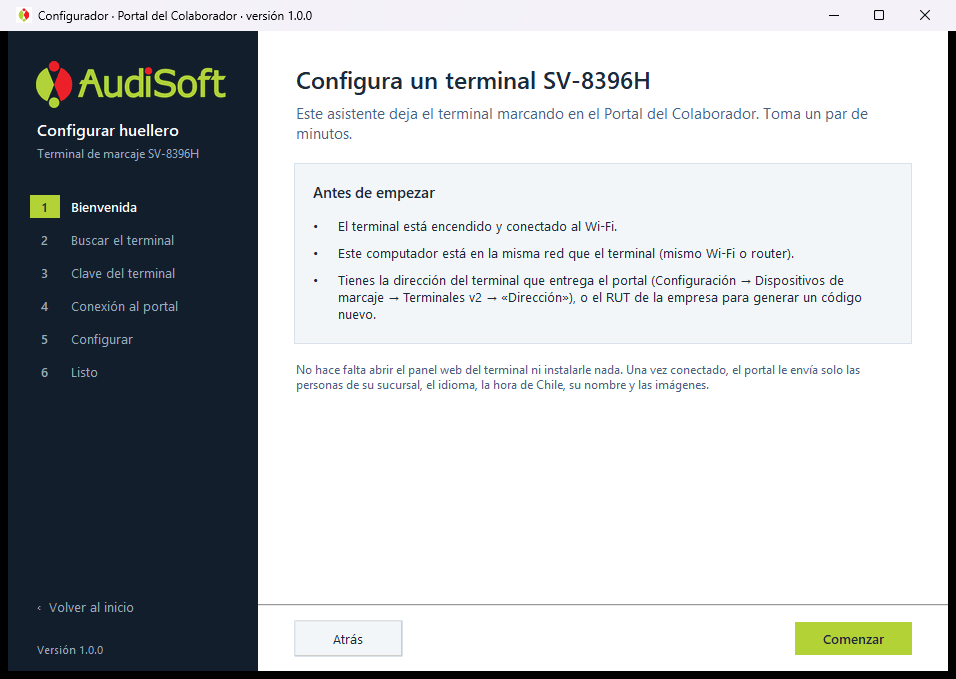
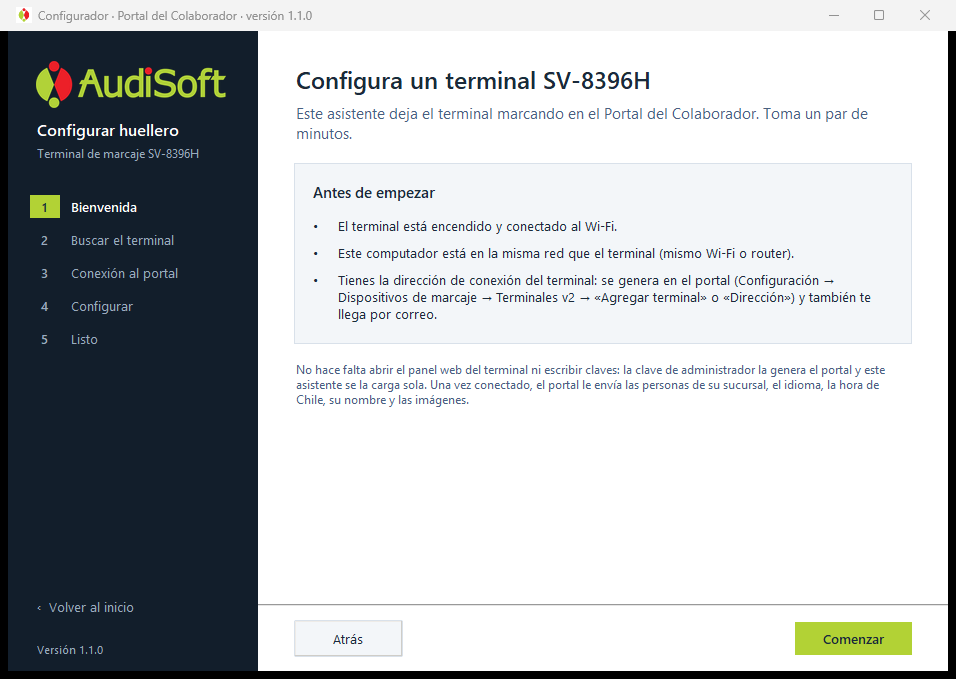
README: configurador 1.1.0 (dirección del portal, clave automática, disponibilidad)
- Parte 0 nueva: agregar el terminal en el portal entrega la dirección de
  conexión y la clave de administrador de 6 dígitos (también por correo).
- Parte 2 con 6 pasos: búsqueda con «Disponible / No disponible», solo se pega
  la dirección, sin página de clave ni «generar un código».
- Problemas frecuentes: terminal no disponible, dirección ya usada en otro
  terminal, dirección que el portal no reconoce. Sin IP a mano.
- Capturas de la 1.1.0.

diff --git a/README.md b/README.md
@@ -12,14 +12,16 @@ actualiza solo.
 
 ## Instructivo: terminal recién llegado
 
-Son **dos partes**: primero el terminal se conecta al Wi-Fi (en el propio equipo)
-y después el configurador, desde un computador en esa **misma red Wi-Fi**, lo
+Son **tres partes**: en el portal se agrega el terminal (eso entrega su
+dirección de conexión), el terminal se conecta al Wi-Fi (en el propio equipo) y
+después el configurador, desde un computador en esa **misma red Wi-Fi**, lo
 conecta al portal.
 
 ```mermaid
 flowchart LR
+    P["🌐 Parte 0<br/>Agregar el terminal<br/>(en el portal)"] --> B
     A["📦 Terminal nuevo<br/>enchufado"] --> B["📶 Parte 1<br/>Idioma y Wi-Fi<br/>(en el terminal)"]
-    B --> C["💻 Parte 2<br/>Abrir el configurador<br/>(mismo Wi-Fi)"]
+    B --> C["💻 Parte 2<br/>Abrir el configurador<br/>y pegar la dirección"]
     C --> D["✅ Marcando en el<br/>Portal del Colaborador"]
 ```
 
@@ -30,9 +32,30 @@ flowchart LR
 | El terminal enchufado a la corriente | Que encienda (tarda cerca de un minuto). |
 | Nombre y clave del Wi-Fi donde quedará instalado | El terminal se conecta a esa red. |
 | Un computador con Windows **en ese mismo Wi-Fi** | Desde ahí se usa el configurador. |
-| La **dirección del terminal** que entrega el portal *(recomendado)* | En el portal: **Configuración → Dispositivos de marcaje → Terminales v2** → botón «Dirección» → «Copiar». Si el terminal aún no está en el portal, basta con el RUT de la empresa (ver paso 2.4). |
+| La **dirección de conexión** del terminal | Se genera en el portal al agregarlo (ver Parte 0). También llega por correo. |
 
 > La red tiene que tener **salida a internet**: el terminal habla directo con el portal.
+
+---
+
+### Parte 0 · Agregar el terminal en el portal
+
+En el portal: **Configuración → Dispositivos de marcaje → Terminales v2 →
+«Agregar terminal»**. Ponerle un nombre (se muestra en el equipo) y elegir la
+sucursal (el terminal recibe a las personas de esa sucursal).
+
+Al agregarlo, el portal muestra dos cosas y las manda **por correo** a quien
+lo agregó:
+
+| Qué | Para qué |
+|---|---|
+| **Dirección de conexión** (`https://…/terminal/…`) | Se pega en el configurador (paso 2.4). Funciona como la clave del terminal. |
+| **Clave de administrador del terminal** (6 dígitos) | **No hay que escribirla en ninguna parte**: el configurador se la define sola al terminal. Sirve para entrar al menú del terminal, así que conviene guardarla. |
+
+> **La dirección sirve para un solo terminal.** El primero que se conecta con
+> ella queda amarrado y ningún otro equipo la puede usar. Si se pierde o se
+> filtró, en el portal se genera otra con el botón **«Dirección»** del terminal
+> (la clave de administrador se mantiene).
 
 ---
 
@@ -111,35 +134,23 @@ terminal**. Si Windows muestra «Windows protegió su PC», hacer clic en
   </tr>
   <tr valign="top">
     <td><b>2.1</b> Elegir <b>Configurar huellero</b>.</td>
-    <td><b>2.2</b> La bienvenida resume lo que se va a hacer. <b>Siguiente</b>.</td>
+    <td><b>2.2</b> La bienvenida resume lo que se va a hacer. <b>Comenzar</b>.</td>
   </tr>
   <tr>
-    <td><img src="docs/configurador-3_buscar.png" alt="Búsqueda del terminal en la red"></td>
-    <td><img src="docs/configurador-4_clave.png" alt="Clave de administrador opcional"></td>
+    <td><img src="docs/configurador-3_buscar.png" alt="Búsqueda del terminal en la red, con su disponibilidad"></td>
+    <td><img src="docs/configurador-4_portal.png" alt="Conexión al portal: pegar la dirección"></td>
   </tr>
   <tr valign="top">
-    <td><b>2.3 Buscar el terminal.</b> Aparece como «Terminal de marcaje SV-8396H» con su número de serie (el de la etiqueta de atrás del equipo). Si no aparece, escribir la IP que muestra su pantalla (paso B2 ②) y <b>Probar</b>.</td>
-    <td><b>2.4 Clave del terminal.</b> Un terminal nuevo viene sin clave: se puede dejar en blanco o definir una de 4 a 8 dígitos (si se define, <b>anotarla</b>: se pide para volver a configurarlo).</td>
+    <td><b>2.3 Buscar el terminal.</b> Aparece como «Terminal de marcaje SV-8396H» con su número de serie (el de la etiqueta de atrás del equipo) y su <b>disponibilidad</b>:<br>• <b>Disponible</b>: no tiene clave de administrador; es el caso de un terminal nuevo.<br>• <b>No disponible</b>: ya tiene clave, porque ya se configuró. Solo se puede volver a configurar con la misma dirección con que se conectó.</td>
+    <td><b>2.4 Conexión al portal.</b> Pegar la <b>dirección de conexión</b> del portal (botón <b>Pegar</b>). El configurador le pide al portal la clave de administrador y se la carga sola al terminal: no se escribe ninguna clave.</td>
   </tr>
   <tr>
-    <td><img src="docs/configurador-5_portal.png" alt="Conexión al portal"></td>
-    <td><img src="docs/configurador-6_configurar.png" alt="Revisar y configurar"></td>
+    <td><img src="docs/configurador-5_configurar.png" alt="Revisar y configurar"></td>
+    <td><img src="docs/configurador-6_listo.png" alt="Terminal conectado"></td>
   </tr>
   <tr valign="top">
-    <td><b>2.5 Conexión al portal.</b> Pegar la <b>dirección</b> copiada del portal (recomendado). Si el terminal aún no está en el portal, elegir «generar un código», el servidor y el RUT de la empresa.</td>
-    <td><b>2.6 Revisar y configurar.</b> Muestra lo que se escribirá en el terminal. <b>Configurar terminal</b> y esperar los ✔.</td>
-  </tr>
-  <tr>
-    <td><img src="docs/configurador-7_listo.png" alt="Terminal conectado"></td>
-    <td valign="top">
-      <b>2.7 ¡Terminal conectado!</b><br><br>
-      En menos de un minuto el terminal recibe las personas de su sucursal, el
-      idioma, la hora de Chile, su nombre y las imágenes de Audisoft.<br><br>
-      <b>Si se usó «generar un código»:</b> falta un paso. En el portal,
-      <b>Configuración → Dispositivos de marcaje → Terminales v2 → «Agregar terminal»</b>,
-      pegar el código, ponerle nombre y elegir la sucursal. Guardar bien el código:
-      funciona como clave del terminal y el configurador no lo vuelve a mostrar.
-    </td>
+    <td><b>2.5 Revisar y configurar.</b> Muestra lo que se escribirá en el terminal. <b>Configurar terminal</b> y esperar los ✔.</td>
+    <td><b>2.6 ¡Terminal conectado!</b> En menos de un minuto el terminal recibe las personas de su sucursal, el idioma, la hora de Chile, su nombre y las imágenes de Audisoft. Desde ahí la dirección queda amarrada a ese terminal.</td>
   </tr>
 </table>
 
@@ -152,11 +163,17 @@ terminal**. Si Windows muestra «Windows protegió su PC», hacer clic en
 
 | Problema | Qué hacer |
 |---|---|
-| El configurador no encuentra el terminal | Revisar que el computador y el terminal estén en el **mismo Wi-Fi** (no en la red de invitados). Escribir la IP que muestra la pantalla del terminal (paso B2 ②) y **Probar**. |
-| Pide una clave que nadie conoce | El terminal ya fue configurado antes con clave. Pedirla a quien lo configuró o a soporte de Audisoft. |
-| Termina, pero «el terminal aún no informa conexión» | El Wi-Fi no tiene salida a internet o la bloquea. Probar con otra red. Si se usó un código, primero hay que agregarlo en el portal. |
+| El configurador no encuentra el terminal | Revisar que el computador y el terminal estén en el **mismo Wi-Fi** (no en la red de invitados) y pulsar **Buscar de nuevo**. La IP que muestra la pantalla del terminal (paso B2 ②) ayuda a confirmar que está en la misma red que el computador. |
+| El terminal aparece **No disponible** | Ya tiene clave de administrador: se configuró antes. Si es el mismo terminal, pegar la dirección con que se conectó (o generar una nueva para ese terminal en el portal). Si es un equipo reutilizado de otro lugar, restablecerlo de fábrica desde su menú y buscarlo de nuevo. |
+| «Esta dirección ya se usó en otro terminal» | Cada dirección sirve para un solo terminal. Agregar este terminal en el portal (Parte 0) o generar una dirección nueva con el botón **«Dirección»**. |
+| «El portal no reconoce esta dirección» | Se generó una dirección más nueva o el terminal se eliminó del portal. Copiar la dirección vigente desde el portal o el correo más reciente. |
+| Termina, pero «el terminal aún no informa conexión» | El Wi-Fi no tiene salida a internet o la bloquea. Probar con otra red. |
 | El portal no muestra el terminal como conectado | Esperar un minuto (se reporta cada 20 segundos) y revisar en **Configuración → Dispositivos de marcaje → Terminales v2**. |
 | Cambió el Wi-Fi del lugar | Repetir solo la **Parte 1 · B** en el terminal. La conexión al portal se mantiene. |
+
+> **Desde la versión 1.1.0** el configurador ya no pide escribir la IP a mano,
+> ni la clave del terminal, ni genera códigos con el RUT de la empresa: todo
+> parte de la dirección de conexión que entrega el portal.
 
 ---
 
